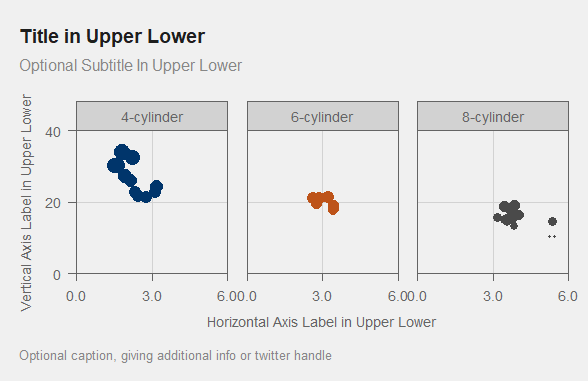
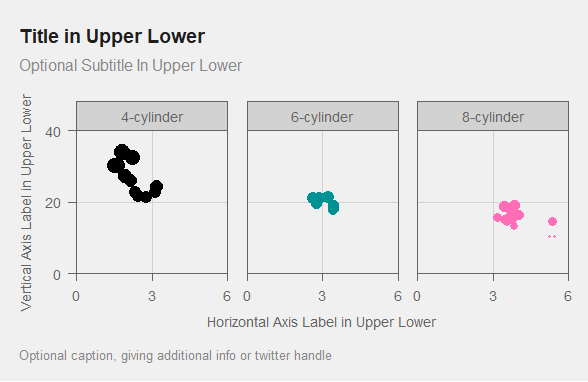
Add dot and whiskers to readme. Other minor edits

diff --git a/README.md b/README.md
@@ -300,6 +300,67 @@ ggsave(filename=paste0("img/", gsub("%", " Perc", title), ".jpg"),
        dpi=72)     ## do not change
 ```
 
+## Dot and Whiskers Plot
+
+It is often desirable to visualize regression coefficients using a dot
+and whiskers plot instead of showing a table of coefficients and
+standard errors. We’ll make up a regression model and demonstrate that
+here.
+
+``` r
+## standardize predictors so they are roughly the same scale
+d = mtcars %>%
+  mutate(wt = scale(wt),  
+         cyl=scale(cyl), 
+         disp=scale(disp), 
+         hp = scale(hp))
+
+m1 = lm(mpg ~  wt + cyl + disp + hp, data=d)
+#summary(m1)
+
+dg = summary(m1)$coefficients %>% 
+  as.data.frame() %>%
+  rownames_to_column(var = 'var') %>%
+  rename(coef=Estimate, se=`Std. Error`) %>%
+  select(var, coef, se) %>%
+  mutate(var = toupper(gsub('[(]|[)]', '', var))) %>%
+  filter(var!='INTERCEPT')
+
+title = "Title in Upper Lower" 
+g = ggplot(dg, aes(x=coef, y=var))+
+  geom_segment(aes(x    = coef-se, 
+                   xend = coef+se,
+                   y    = var, 
+                   yend = var), color=snred)+
+  geom_point(color=snred) +
+  geom_vline(xintercept=0, color=snmediumgray)+
+  labs(title    = title,
+       subtitle = 'Optional Subtitle In Upper Lower',
+       caption  = "Optional caption, giving additional info or twitter handle",
+       x = 'Coefficient', 
+       y = NULL)+  ## Optional. 
+  scale_x_continuous(limits=c(-5,5))+
+  scale_y_discrete(expand=c(0,0)) +
+  coord_cartesian(clip='off')+
+  theme_org(type='dw', base_size=36/3) 
+
+print(g)
+```
+
+<img src="man/figures/README-unnamed-chunk-9-1.png" style="display: block; margin: auto;" />
+
+``` r
+gg = g + 
+  theme_org(type='dw', base_size=36)
+
+ggsave(filename=paste0("img/", gsub("%", " Perc", title), ".jpg"), 
+       plot=gg,
+       width=20,   ## do not change
+       height=10,  
+       units='in', ## do not change
+       dpi=72)     ## do not change
+```
+
 ## Faceting
 
 We’ll use our scatter plot example, but with `facet_wrap` to make
@@ -320,14 +381,14 @@ g = ggplot(dg, aes(x=wt, y=mpg))+
        caption  = "Optional caption, giving additional info or twitter handle",
        x = 'Horizontal Axis Label in Upper Lower',
        y = 'Vertical Axis Label in Upper Lower')+
-  scale_x_continuous(limits=c(0, 6), breaks=c(0, 3, 6), oob=squish, labels=comma)+
+  scale_x_continuous(limits=c(0, 6), breaks=c(0, 3, 6), oob=squish, labels=comma_format(accuracy = 1))+
   scale_y_continuous(limits=c(0,40), breaks=c(0,20,40), oob=squish, labels=comma)+
   coord_cartesian(clip='off', expand=FALSE)+
   theme_org(type='scatter', base_size=36/3, facet=T)
 print(g)
 ```
 
-<img src="man/figures/README-unnamed-chunk-9-1.png" style="display: block; margin: auto;" />
+<img src="man/figures/README-unnamed-chunk-10-1.png" style="display: block; margin: auto;" />
 
 ``` r
 gg = g +
@@ -348,18 +409,18 @@ You can add a logo to the lower right corner of your plot with
 `add_logo`:
 
 ``` r
-g %>% add_logo('r') ## check logo in RStudio viewer
+g %>% add_logo(org='r') ## check logo in RStudio viewer
 ```
 
-<img src="man/figures/README-unnamed-chunk-10-1.png" style="display: block; margin: auto;" />
+<img src="man/figures/README-unnamed-chunk-11-1.png" style="display: block; margin: auto;" />
 
 ``` r
 ## Save to file
 gg = g +
-  theme_org(type='scatter', base_size=36)+ 
+  theme_org(type='scatter', base_size=36, facet=T)+ 
   scale_size(range=c(6,18)/2)
 
-gg = gg %>% add_logo('r') ## add logo to lower right corner
+gg = gg %>% add_logo(org='r') ## add logo to lower right corner
 
 ggsave(filename=paste0("img/", gsub("%", " Perc", title), ".jpg"), 
        plot=gg, 
@@ -369,26 +430,27 @@ ggsave(filename=paste0("img/", gsub("%", " Perc", title), ".jpg"),
        dpi=72)     ## do not change
 ```
 
-You can easily add a logo to the theme by creating a pull request. All
-you need to do is add a image file for the logo called `orgname.png` to
-the logos folder. Then you’ll be able to use `add_logo('orgname')`. For
-example, there is a logo called `yale.png` in the logo folder, so
-instead of
+You can easily add a logo to the theme. All you need to do is add a
+image file for the logo called `orgname.png` to the logos folder, and
+then create a pull request. Then you’ll be able to use
+`add_logo('orgname')`. For example, one of the logos of the American
+Statistical Association has been saved as `asa.png` in the logo folder,
+so instead of
 
 ``` r
-g %>% add_logo('r')
+g %>% add_logo(org='r')
 ```
 
 we can use
 
 ``` r
-g %>% add_logo('yale')
+g %>% add_logo(org='asa')
 ```
 
-<img src="man/figures/README-unnamed-chunk-12-1.png" style="display: block; margin: auto;" />
+<img src="man/figures/README-unnamed-chunk-13-1.png" style="display: block; margin: auto;" />
 
-The name of the file name, without the file extension, must match what
-is put in the argument of `add_logo`.
+The name of the file name, without the `png` file extension, must match
+what is put in the argument of `add_logo`.
 
 Any logo can be used, but logos that are wider logos are better than
 narrow logos.
@@ -410,7 +472,7 @@ or `+ scale_fill_manual( values=cb14)` to a plot. For example,
 g + scale_color_manual(values=cb14)
 ```
 
-<img src="man/figures/README-unnamed-chunk-13-1.png" style="display: block; margin: auto;" />
+<img src="man/figures/README-unnamed-chunk-14-1.png" style="display: block; margin: auto;" />
 
 ## Organization-specific colors
 
@@ -421,13 +483,13 @@ by using the org-specific theme function like this:
 g + theme_org( type='scatter', base_size=12, facet=T, colors='yale')
 ```
 
-<img src="man/figures/README-unnamed-chunk-14-1.png" style="display: block; margin: auto;" />
+<img src="man/figures/README-unnamed-chunk-15-1.png" style="display: block; margin: auto;" />
 
 ``` r
 g + theme_yale(type='scatter', base_size=12, facet=T) ## same
 ```
 
-<img src="man/figures/README-unnamed-chunk-14-2.png" style="display: block; margin: auto;" />
+<img src="man/figures/README-unnamed-chunk-15-2.png" style="display: block; margin: auto;" />
 
 You can easily add an organization-specific color scheme that does not
 yet exist in the package with a pull-request. Open `colors.r`, and add a
